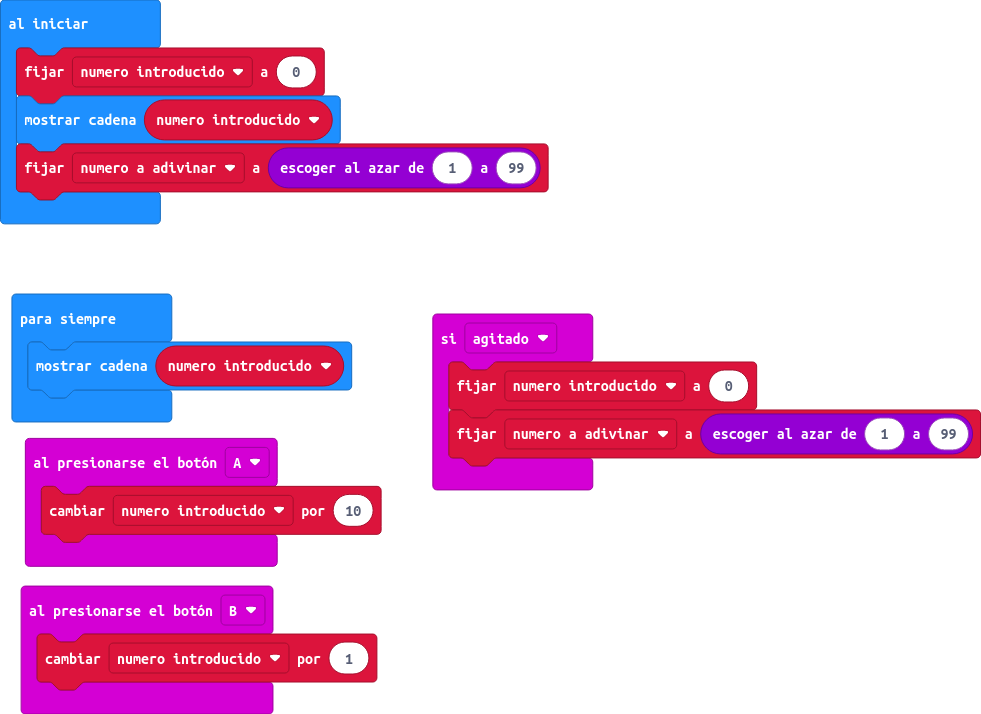
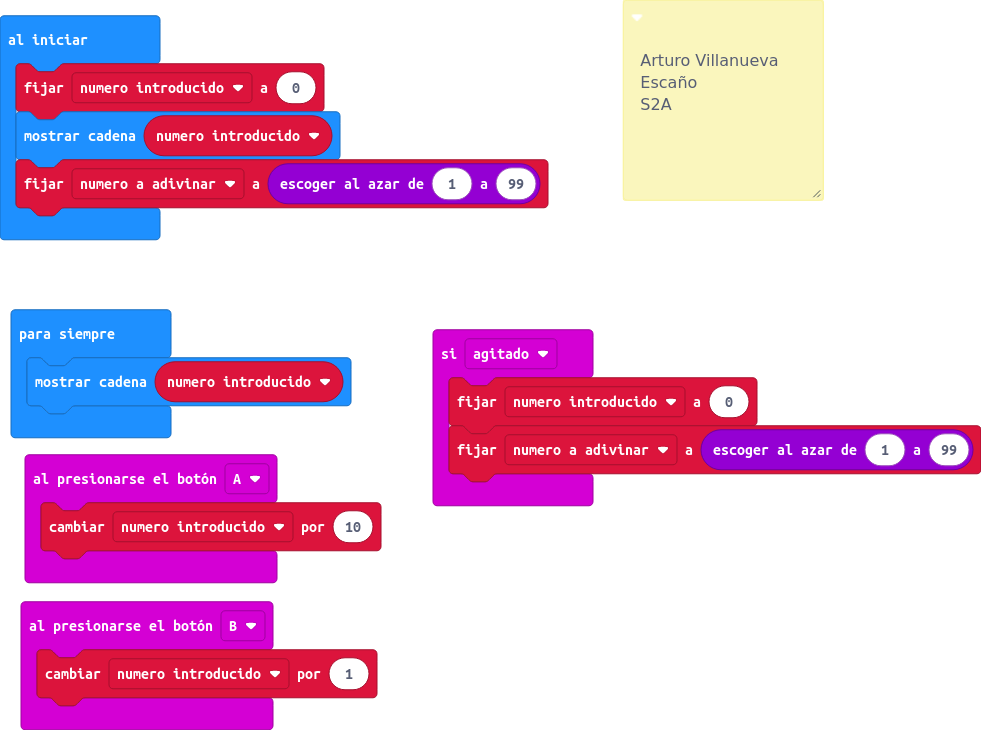
Actualizar main.blocks, main.ts

diff --git a/main.ts b/main.ts
@@ -1,3 +1,8 @@
+/**
+ * Arturo Villanueva Escaño
+ * 
+ * S2A
+ */
 input.onButtonPressed(Button.A, function () {
     numero_introducido += 10
 })
